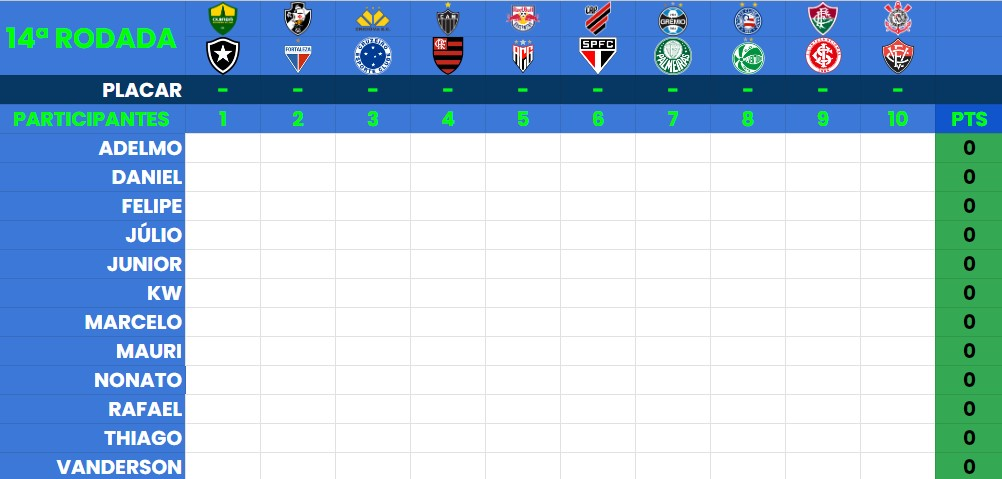
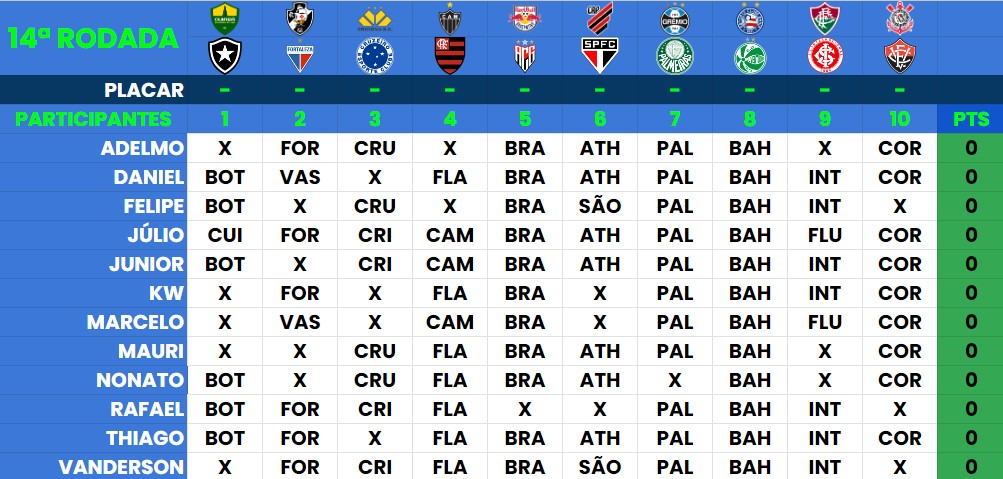
U

diff --git a/index.html b/index.html
@@ -51,12 +51,12 @@
           <img src="./assets/Round14.jpg" alt="Logo do Campeonato Brasileiro 2022" />
         </div>
         <div class="text">
-          <h2 class="title"><a href="./palpites_14.html">MERCADO ABERTO PARA A 14ª RODADA</a>
+          <h2 class="title"><a href="./predictor.html">MERCADO FECHADO</a>
           </h2>
           <p>
-            Palpitem até amanhã 03/07 às 19 horas
+            A bola tá rolando...
           </p>
-          <a class="button" href="./palpites_14.html">Palpitem na 14ª Rodada</a>
+          <a class="button" href="./predictor.html">Resumo da 14ª Rodada</a>
         </div>
       </div>
     </section>
